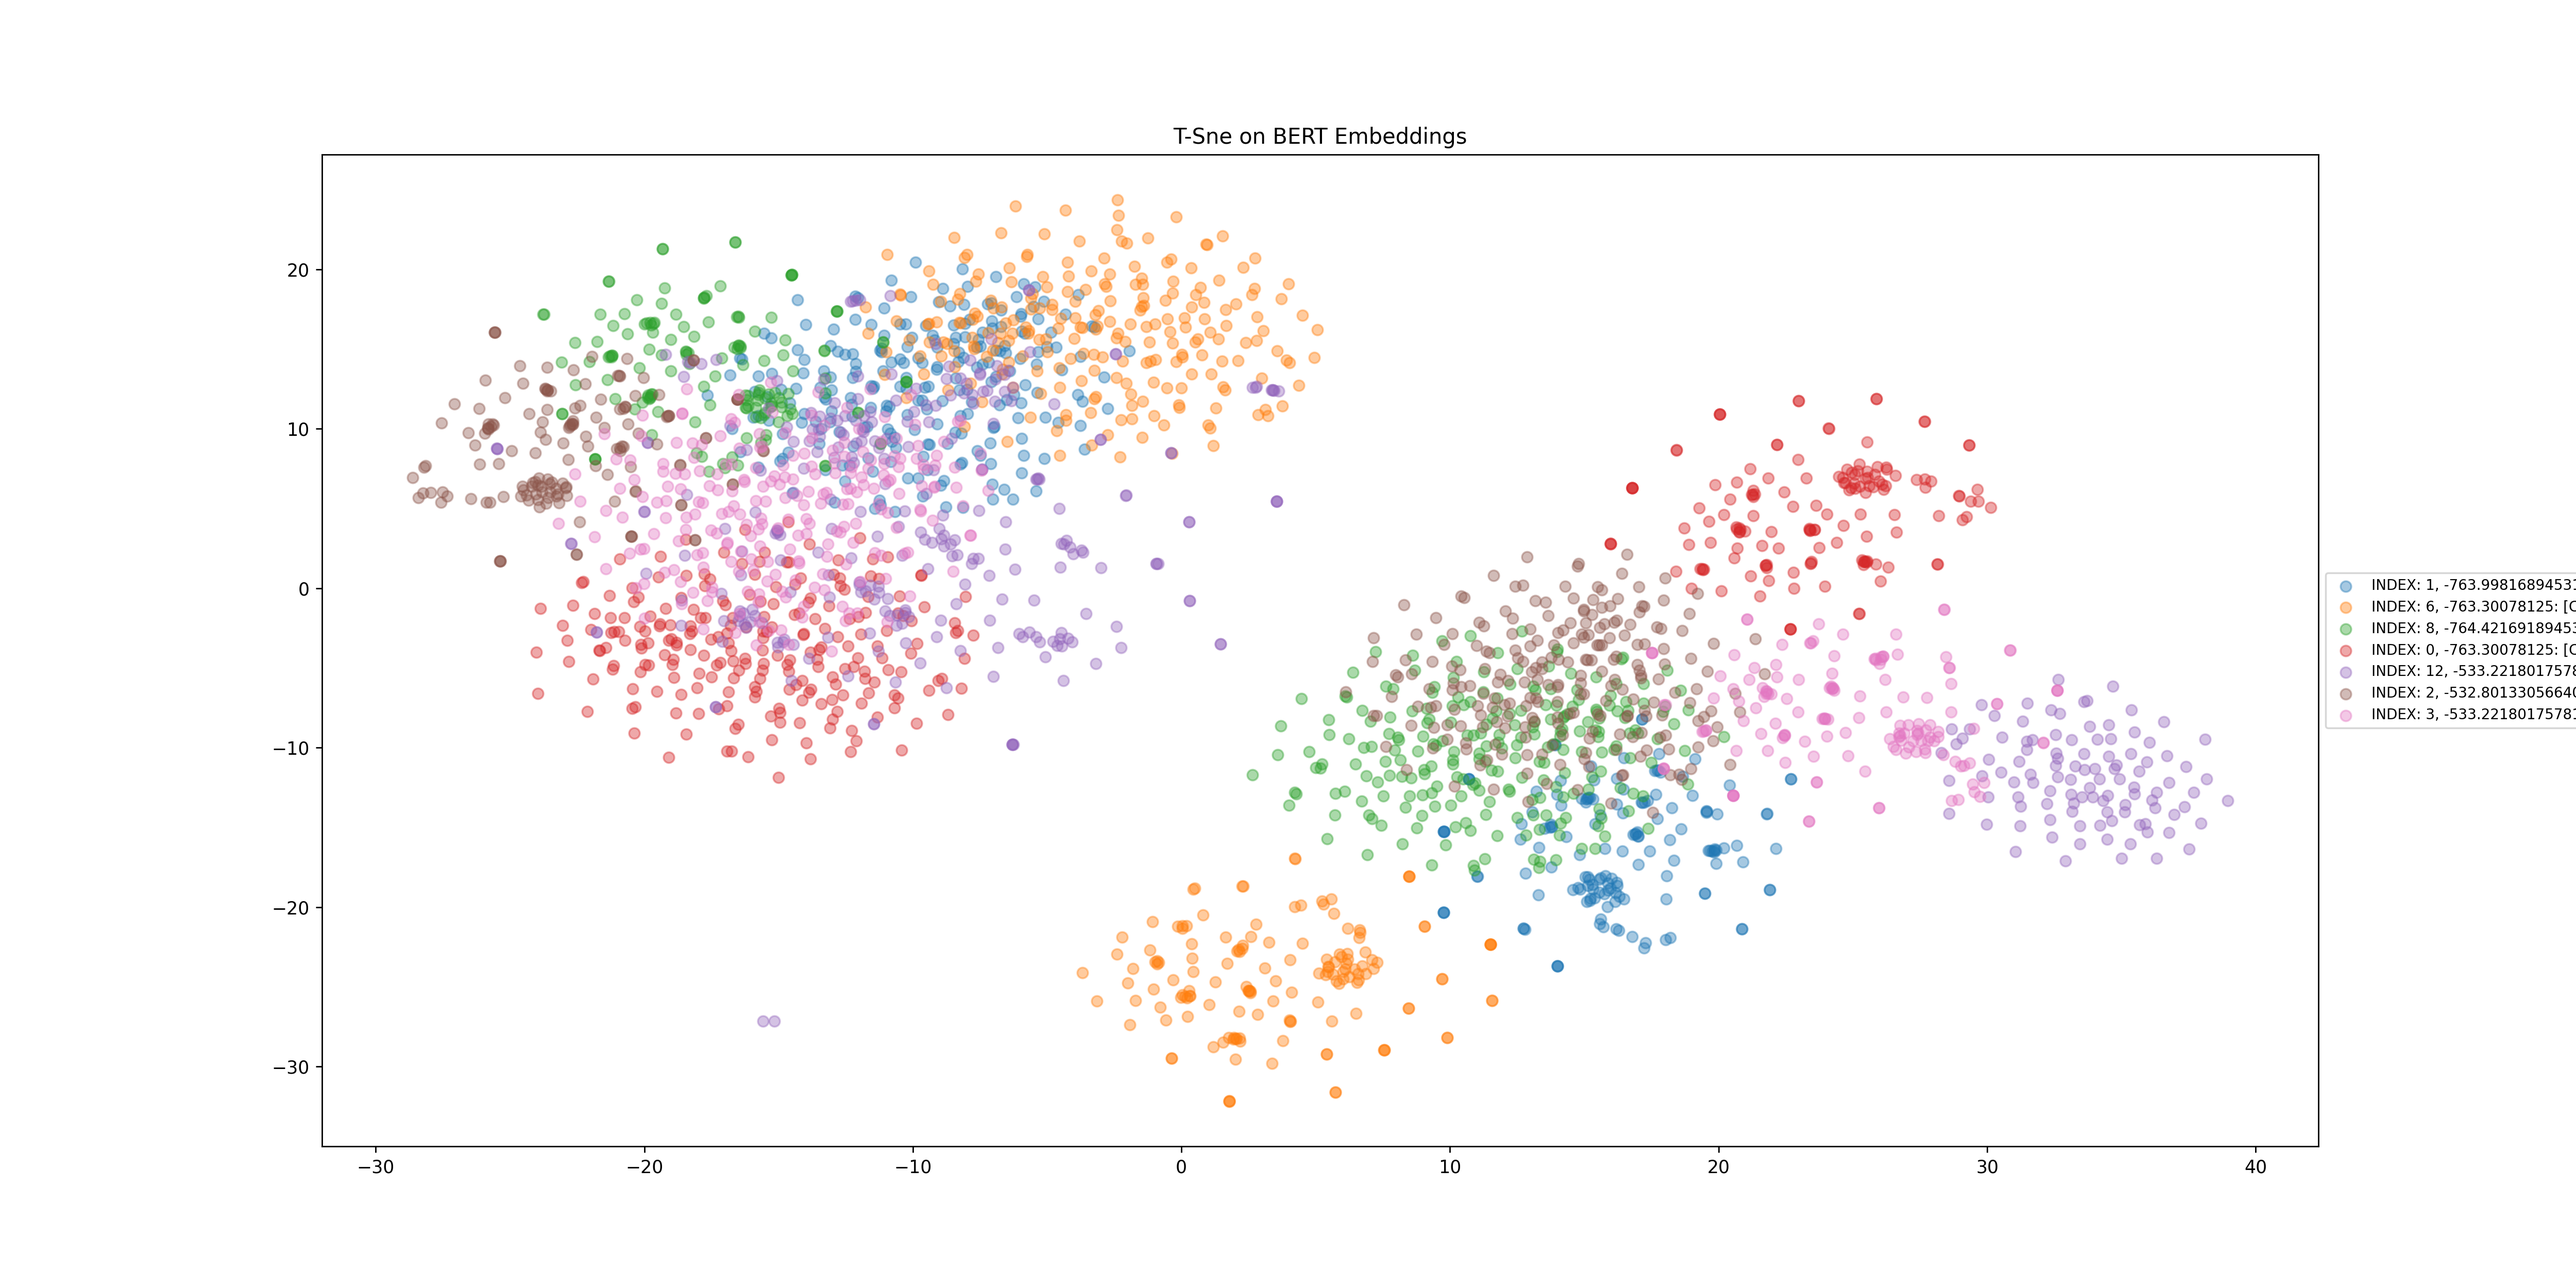
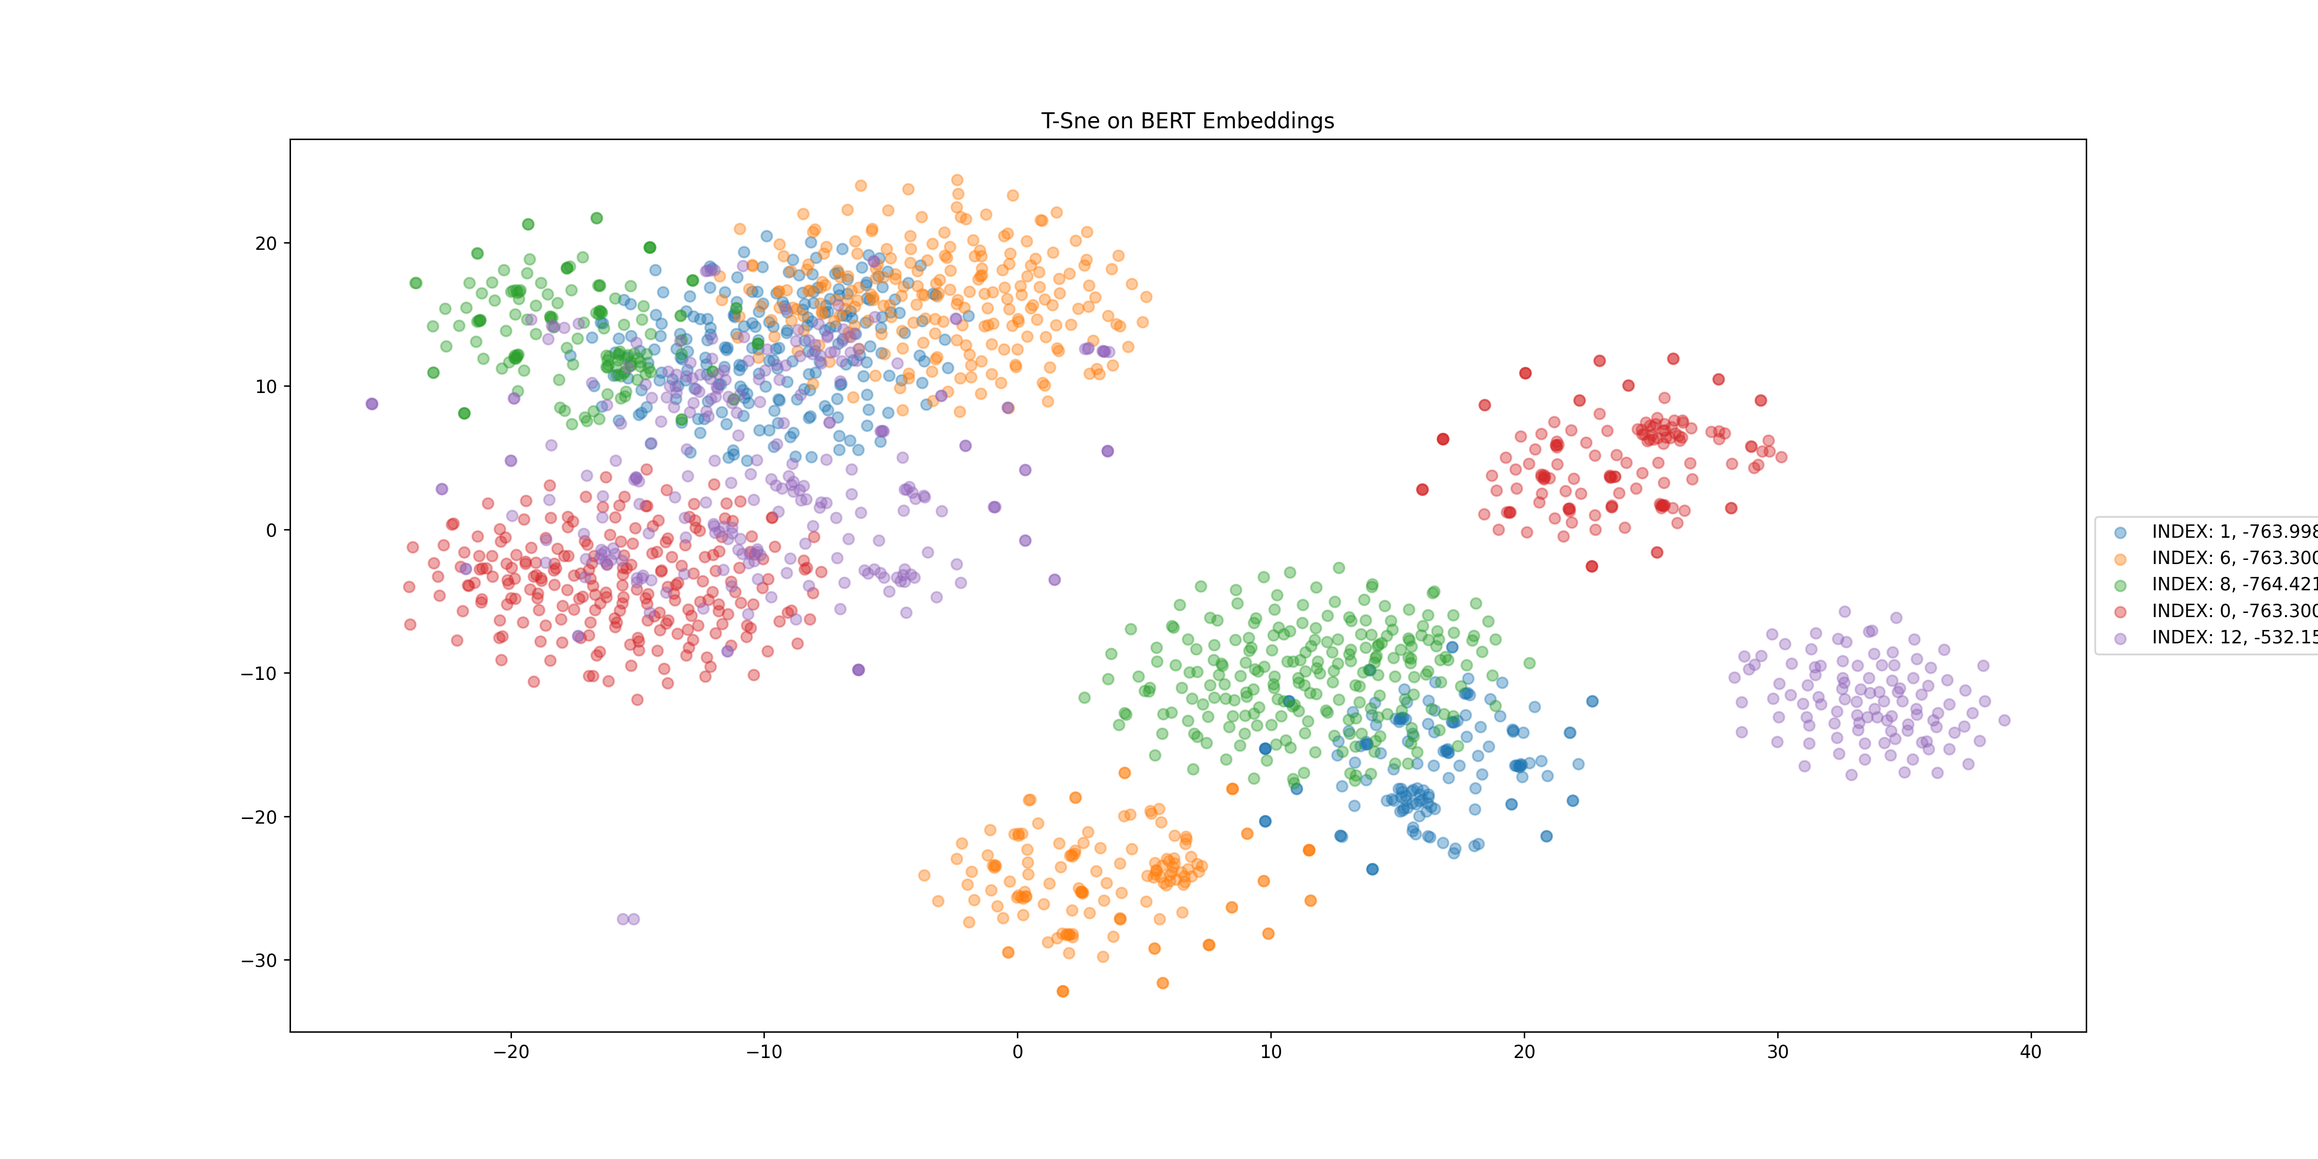
who is the prettiest graph of them all

diff --git a/utils/embeddings.py b/utils/embeddings.py
@@ -35,7 +35,7 @@ def emb_visualizer(model, dataset, tokenizer, args):
 
     # Eval!
     print(args.eval_batch_size)
-    fig = plt.figure(figsize=(20,10))
+    fig = plt.figure(figsize=(18, 9))
     i = 0
     for batch in tqdm(eval_dataloader, desc="Evaluating"):
         model.eval()
@@ -53,7 +53,7 @@ def emb_visualizer(model, dataset, tokenizer, args):
             input_embs = model.bert_enc.embeddings(input_ids=input_ids)
             cos_sims = cos_similarity(input_embs)            
             topk = topk_embedding_sentences(cos_sims, 4, input_ids, tokenizer)
-            bottomk = topk_embedding_sentences(cos_sims, 6, input_ids, tokenizer, bottom=True)
+            bottomk = topk_embedding_sentences(cos_sims, 4, input_ids, tokenizer, bottom=True)
 
             # Remove duplicates from least similar
             targets = []
@@ -81,7 +81,7 @@ def emb_visualizer(model, dataset, tokenizer, args):
                 plt.scatter(X_embedded[:, 0], X_embedded[:, 1], alpha=0.4, label=legend_text)
 
         break
-    plt.legend(prop={'size':8}, loc='center left', bbox_to_anchor=(1, 0.5))
+    plt.legend(prop={'size': 10}, loc='center left', bbox_to_anchor=(1, 0.5))
     plt.title('T-Sne on BERT Embeddings')
     plt.savefig('embeddings_scattered', dpi=250)
 
